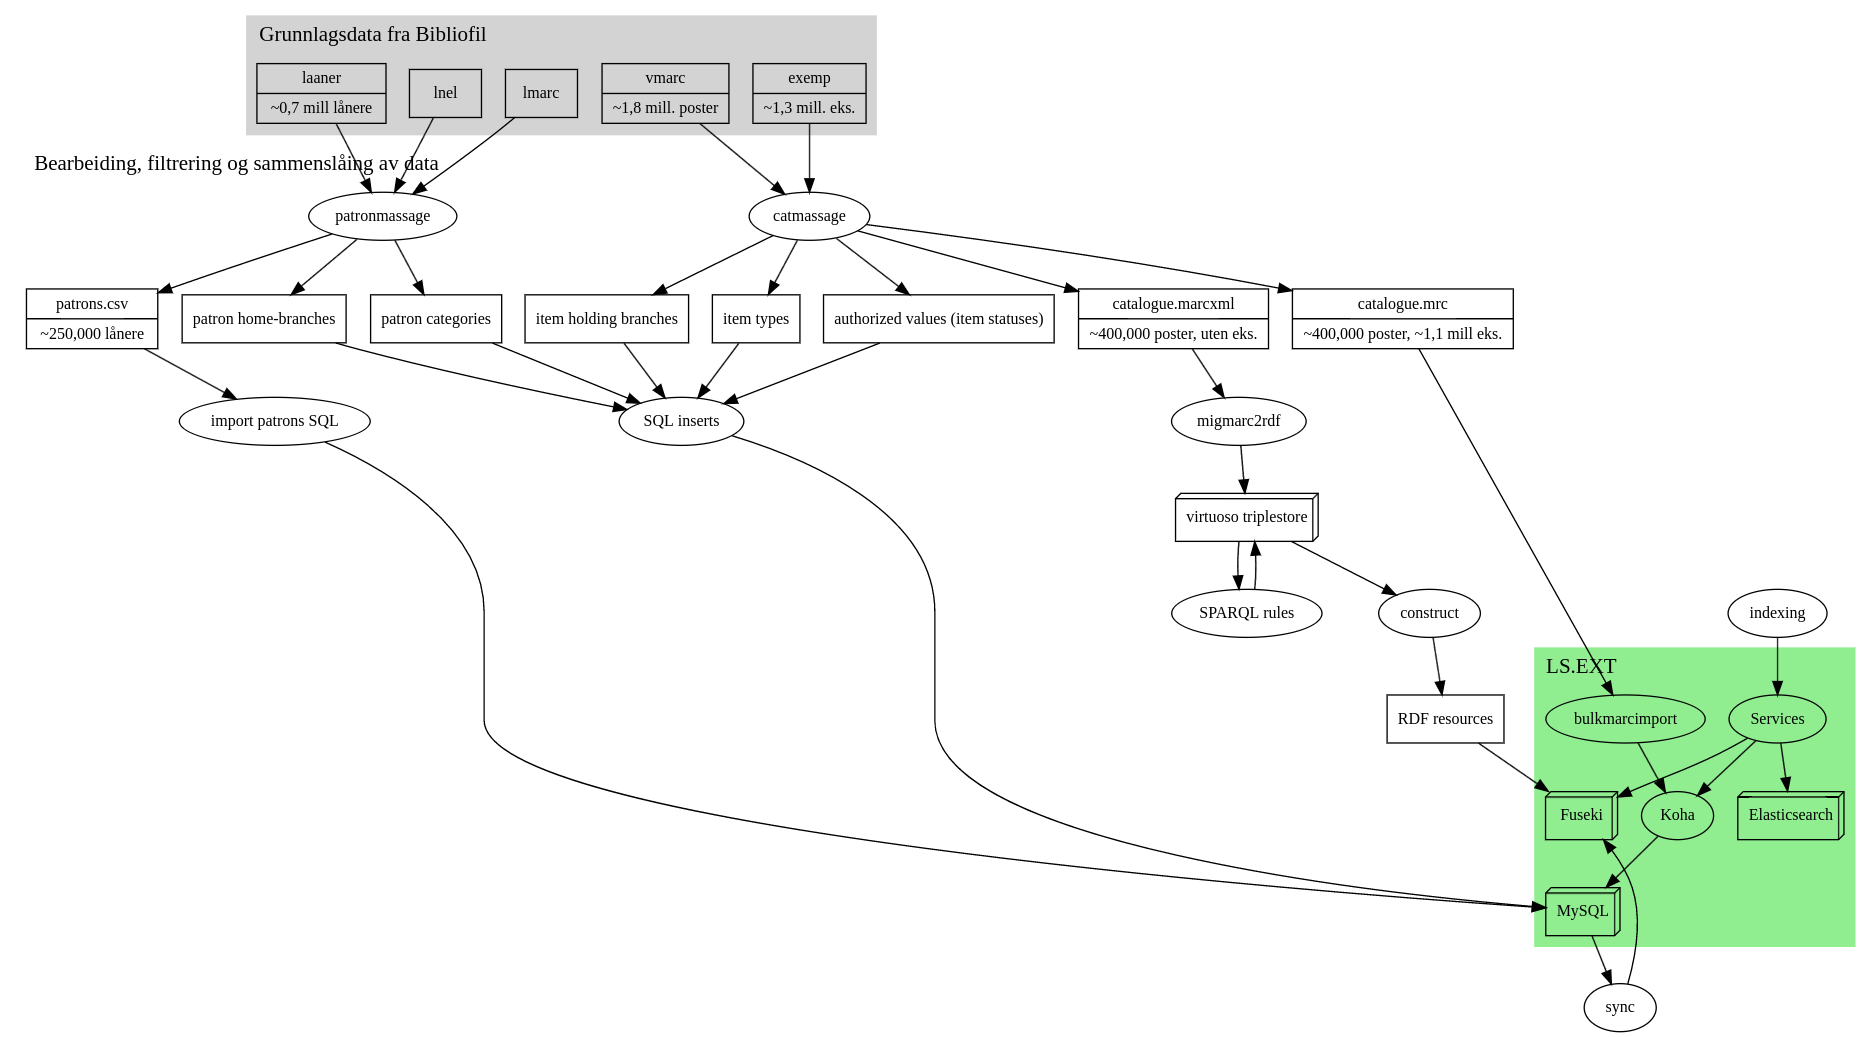
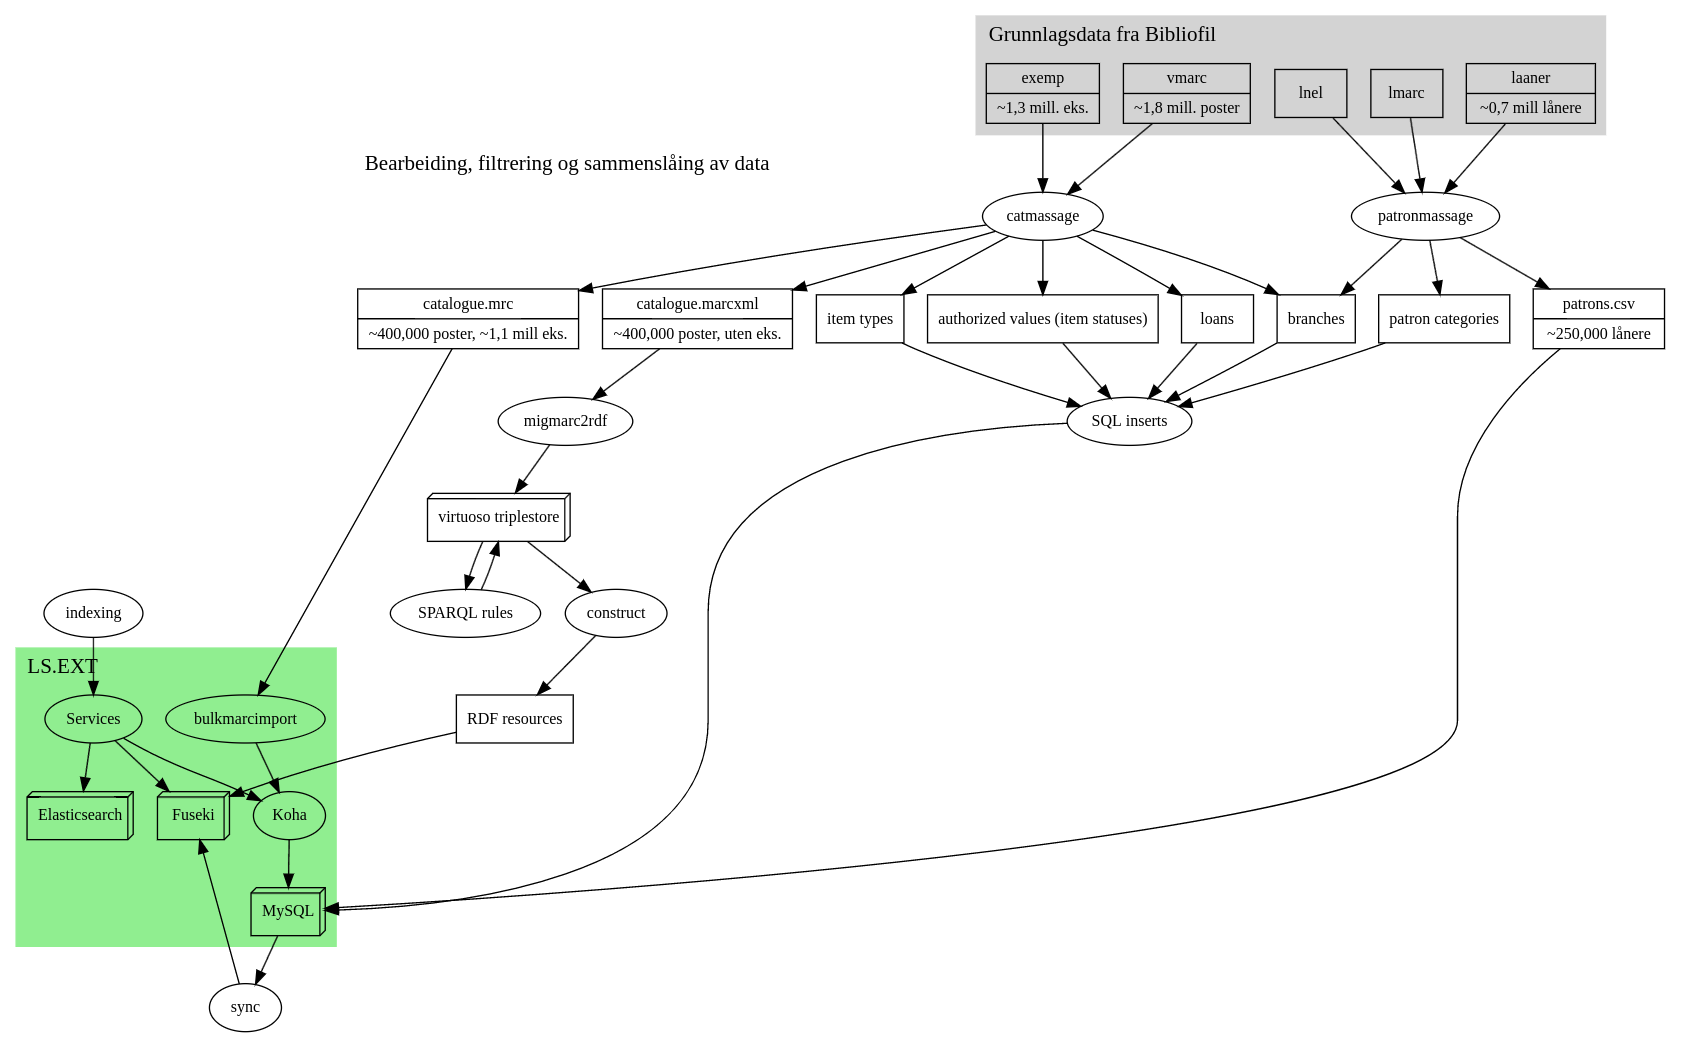
migration: migrate patrons and loans WIP

diff --git a/migration/README.md b/migration/README.md
@@ -10,6 +10,8 @@
 
 * Run `make DATASET=full`. Set the target hostname with f.ex: `HOSTNAME=koha2.deichman.no`. Optionally with `LIMIT=n` to limit the number of records to be migrated, and/or `SKIP=n` to skip the first n number of records. Run make with `-j n` to enable paralell processing, with `n` capping the number of jobs to be run at once.
 
+* If you also wish to migrate patrons, loans and reservations, set `MIGRATE_PATRONS=true`.
+
 * If the process stops, just run `make` again, and it will pick up where it left. Run `make  clean` if you want to start all over.
 
 * Recommended command: `sudo make --jobs=4 --output-sync=recurse DATASET=full NOVAGRANT=true`
